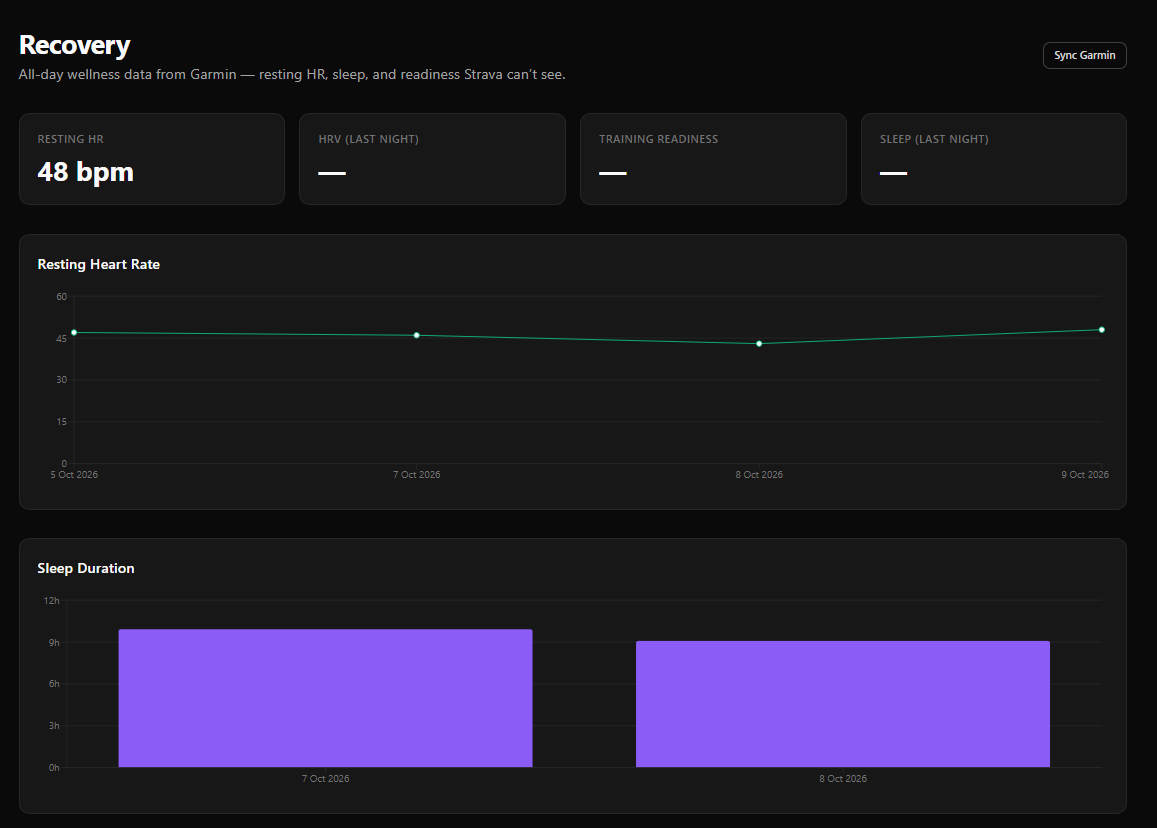
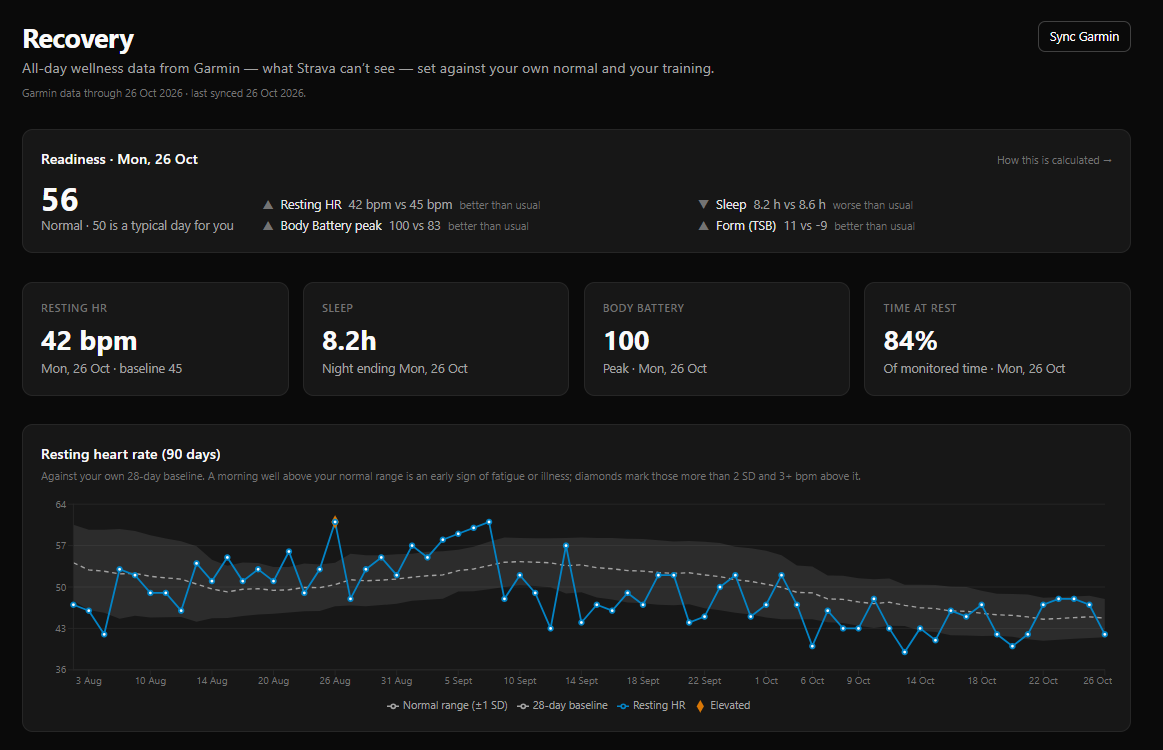
Update readme

diff --git a/README.md b/README.md
@@ -41,12 +41,19 @@ a per-run breakdown.
 
 ![Durability by duration, aerobic decoupling chart and long-run table](docs/images/long-runs.png)
 
-**Dashboard and recovery:** headline stats, recent activities, and Garmin resting HR
-and sleep.
+**Recovery:** a transparent readiness score, and resting HR against a personal
+28-day baseline, with elevated mornings flagged.
 
-| Dashboard | Recovery |
-|---|---|
-| ![Dashboard with totals, fitness, resting HR and latest PR](docs/images/dashboard.png) | ![Recovery page with resting heart rate and sleep duration](docs/images/recovery.png) |
+![Readiness score with its components, recovery stat cards and resting heart rate against its baseline](docs/images/recovery.png)
+
+How the next morning responds to rest, easy, moderate and hard days, plus sleep
+stages, Body Battery charge and drain, and stress.
+
+![Next-morning response table, sleep stages, Body Battery and stress charts](docs/images/recovery-2.png)
+
+**Dashboard:** headline stats, fitness and recent activities.
+
+![Dashboard with totals, fitness, resting HR and latest PR](docs/images/dashboard.png)
 
 ## Key terms
 
